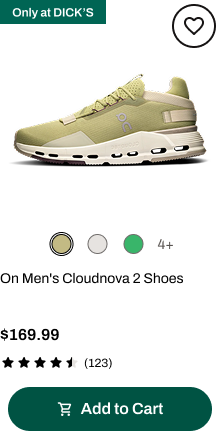
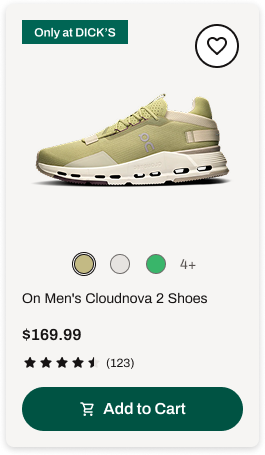
Update storyboard product cards to new self-contained artwork
- Swap in updated Add to Cart / Added exports with their own baked-in
  card background instead of a plain white fill
- Resize the product card to the new artwork native aspect ratio so
  object-fit no longer crops the CTA button, and rescale the mobile
  breakpoint to match
- Re-measure the tap-dot position against the new button placement
- Drop the CSS background fill now that the artwork supplies its own,
  so the rounded card reads against the dark stage instead of sitting
  in a rectangular box

diff --git a/dicks-transactional-email.css b/dicks-transactional-email.css
@@ -193,15 +193,14 @@ body.story-page {
 /* ─── ACT 1: PRODUCT CARD (add to cart → added) ─── */
 .product-card {
   position: relative;
-  width: 220px;
-  height: 431px;
+  width: 265px;
+  height: 455px;
 }
 .product-card-media {
   position: relative;
   width: 100%;
   height: 100%;
   overflow: hidden;
-  background: #ffffff;
   box-shadow:
     0 40px 80px -28px rgba(0,0,0,0.75),
     0 0 0 1px rgba(255,255,255,0.06);
@@ -226,7 +225,7 @@ body.story-page {
 .card-tap-dot {
   position: absolute;
   left: 50%;
-  top: 94.5%;
+  top: 89.8%;
   width: 18px; height: 18px;
   margin: -9px 0 0 -9px;
   border-radius: 50%;
@@ -639,7 +638,7 @@ body.story-page {
 @media (max-width: 520px) {
   .story-shell { padding: 88px 16px 56px; }
   .story-viewport { max-width: 260px; height: 440px; }
-  .product-card { width: 190px; height: 372px; }
+  .product-card { width: 230px; height: 395px; }
   .sys-panel { width: 240px; }
   .phone-mockup { width: 194px; height: 399px; }
 }
